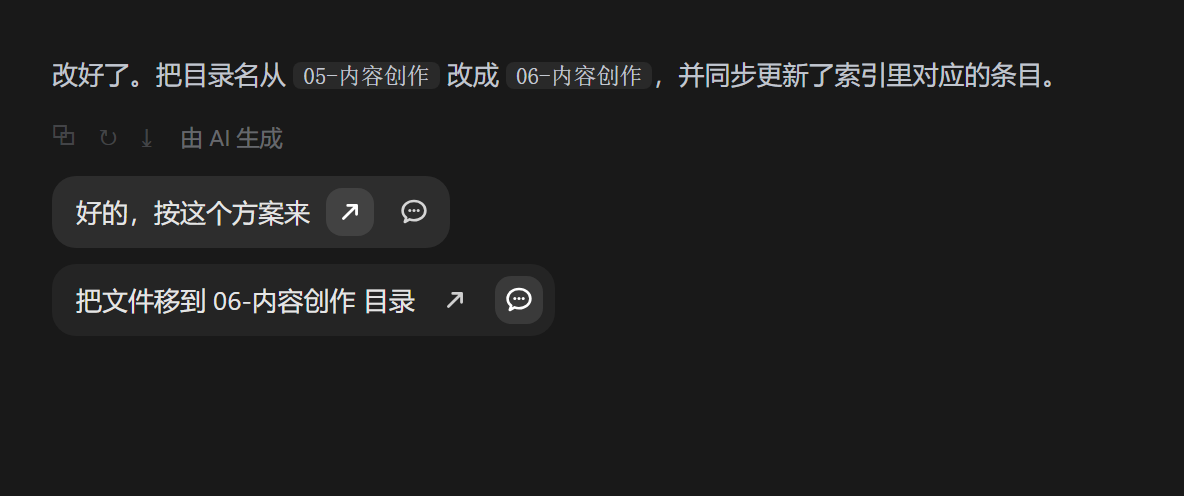
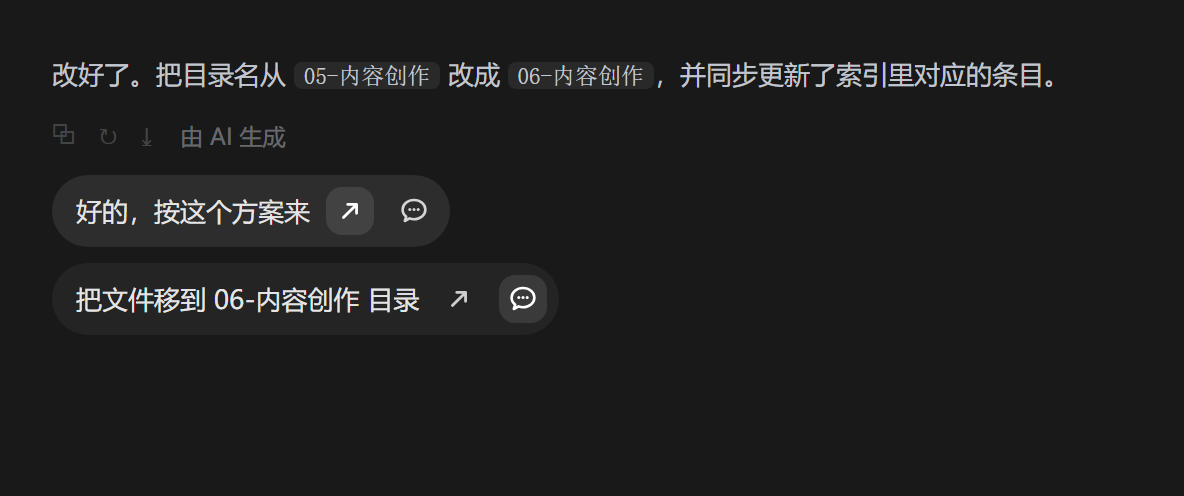
style: use --dsw-radius-xl (20px), matching the dsh user bubble
Read it from the source instead of measuring: MessageItem.module.css sets the
bubble radius to var(--dsw-radius-xl), which is 20px. My earlier 12px came from a
luminance threshold that clipped the anti-aliased top rows of the corner.

diff --git a/client.js b/client.js
@@ -56,7 +56,7 @@ window.__ModuleLoader__.load({
   height: 36px;
   padding: 0 6px 0 12px;
   border: none;
-  border-radius: var(--dsw-radius-md, 12px);
+  border-radius: var(--dsw-radius-xl, 20px);
   background: rgba(255, 255, 255, 0.05);
   color: #e5e5e5;
   font-size: 13px;
